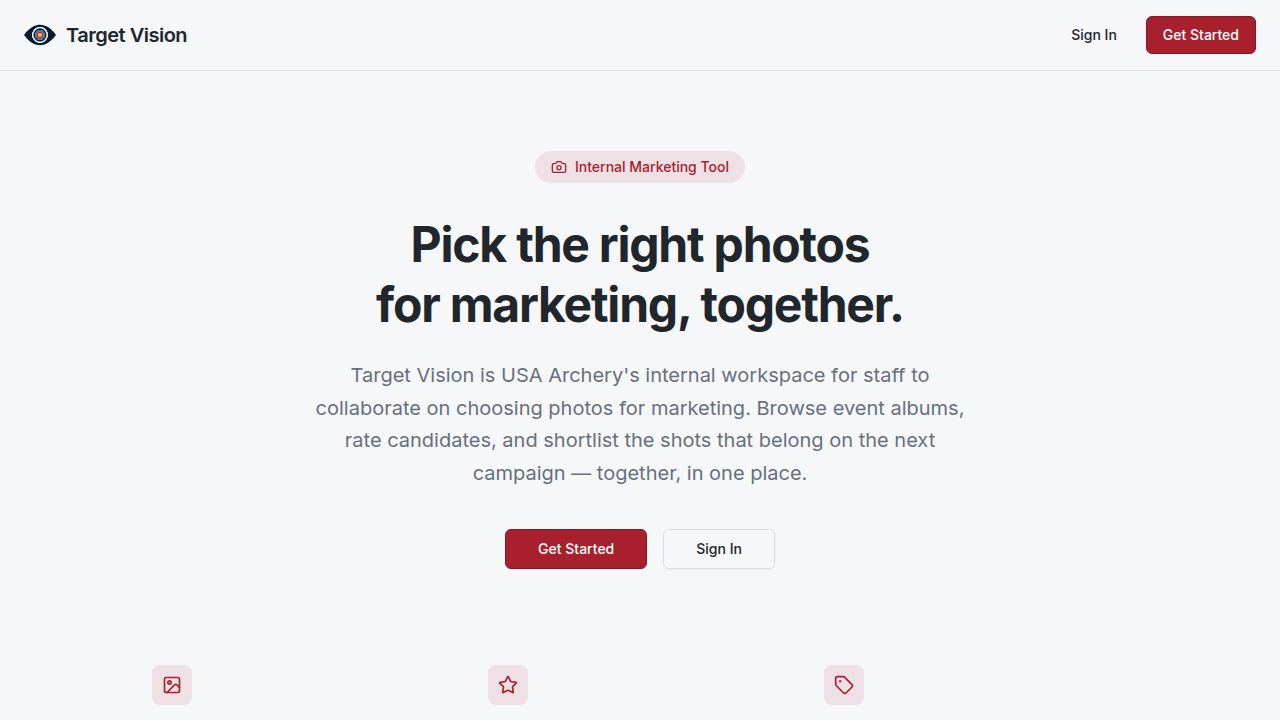
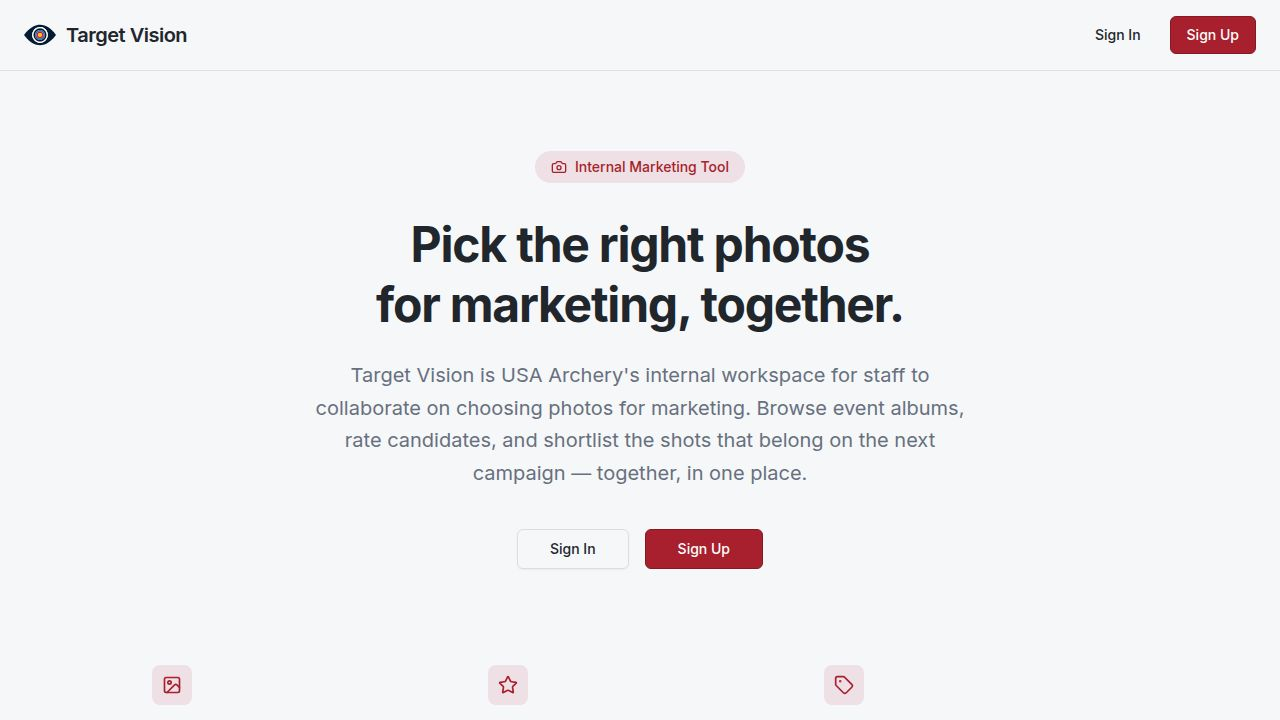
Add 'Sign Up' button to home page (Task #122)
Added a clearly labeled 'Sign Up' button as a distinct secondary action
alongside 'Sign In' on the home page (artifacts/photo-album/src/pages/home.tsx).

Changes:
- Header: Added a 'Sign Up' button next to 'Sign In'; 'Sign In' is now styled
  as a ghost button so 'Sign Up' (filled) is visually the primary CTA.
- Main hero section: Added a 'Sign Up' button next to 'Sign In'; 'Sign In' is
  now an outline button so the two actions are visually distinct and 'Sign Up'
  reads as the primary action for new users.
- Both buttons link to the existing /sign-up route (Clerk SignUp component,
  already configured in App.tsx).

No new routes or components were needed — the sign-up page was already
registered and functional.

Replit-Task-Id: d588d772-1a76-48f8-86ea-f2b7767d424d

Changed region(s): [[0.375, 0.7333, 0.5938, 0.7944], [0.8438, 0.0306, 0.9688, 0.0917]]

diff --git a/artifacts/photo-album/src/pages/home.tsx b/artifacts/photo-album/src/pages/home.tsx
@@ -14,7 +14,10 @@ export default function Home() {
         </div>
         <div className="flex items-center gap-3">
           <Link href="/sign-in">
-            <Button data-testid="sign-in-btn">Sign In</Button>
+            <Button variant="ghost" data-testid="sign-in-btn">Sign In</Button>
+          </Link>
+          <Link href="/sign-up">
+            <Button data-testid="sign-up-btn">Sign Up</Button>
           </Link>
         </div>
       </header>
@@ -37,8 +40,13 @@ export default function Home() {
 
         <div className="flex items-center justify-center gap-4">
           <Link href="/sign-in">
-            <Button size="lg" data-testid="home-sign-in-btn" className="px-8">
+            <Button size="lg" variant="outline" data-testid="home-sign-in-btn" className="px-8">
               Sign In
+            </Button>
+          </Link>
+          <Link href="/sign-up">
+            <Button size="lg" data-testid="home-sign-up-btn" className="px-8">
+              Sign Up
             </Button>
           </Link>
         </div>